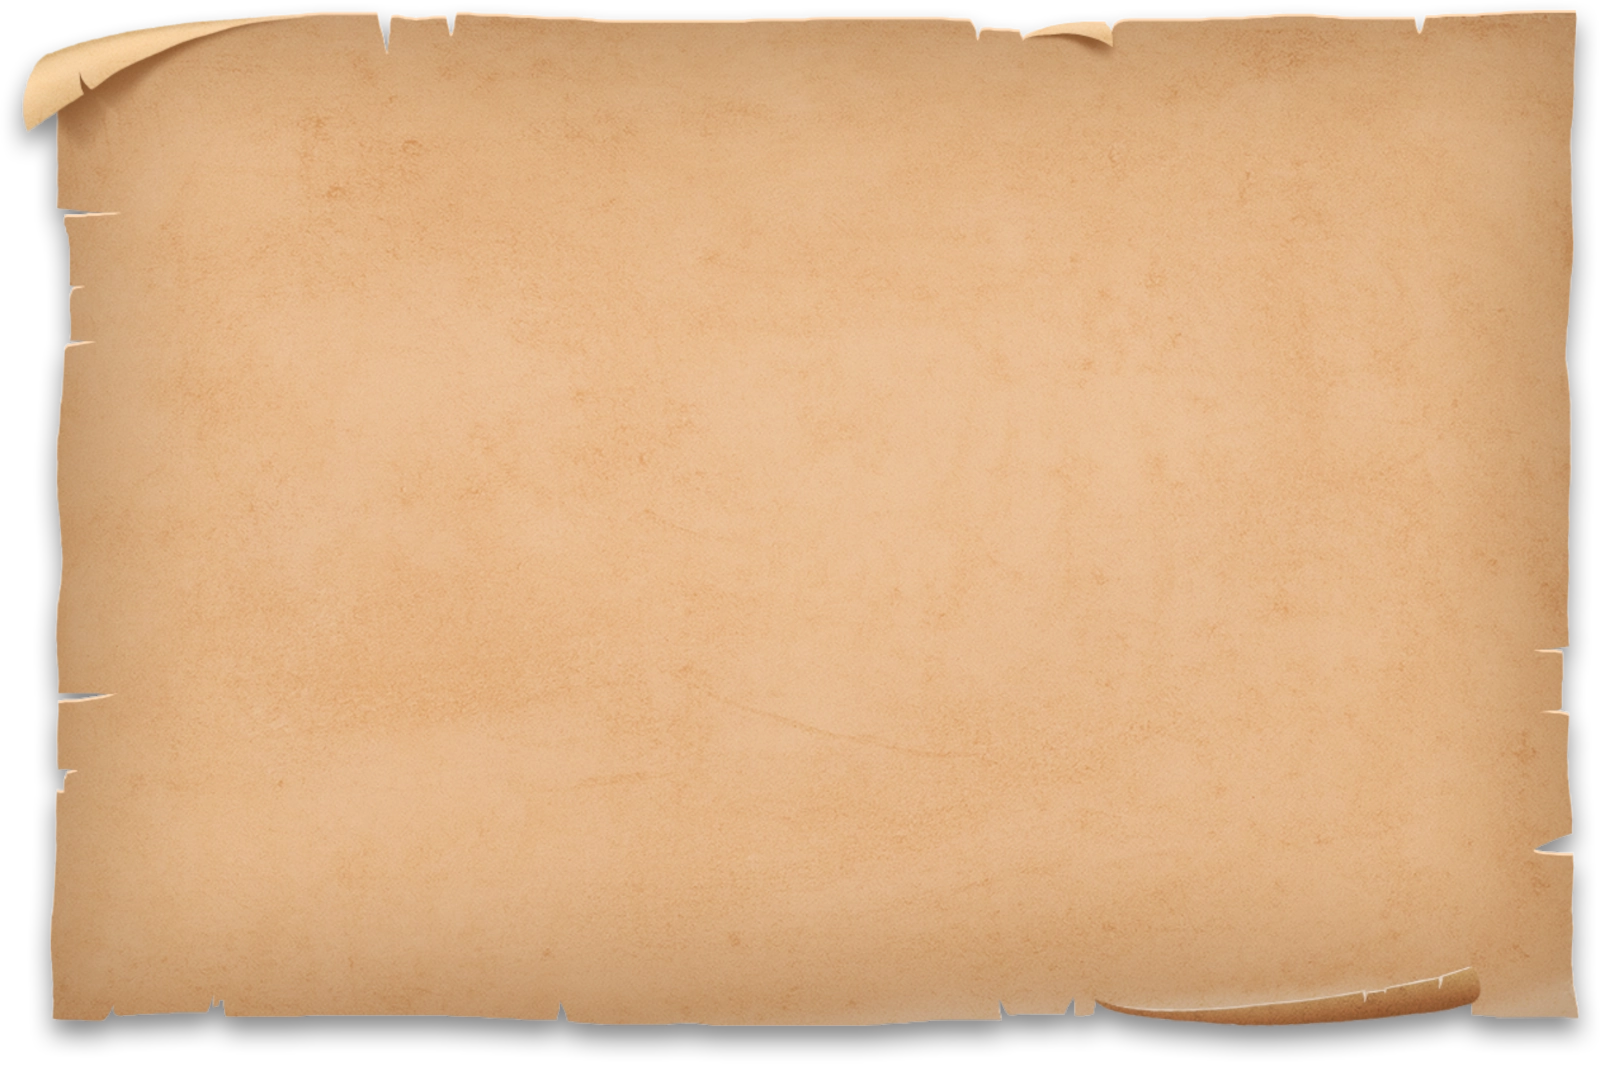
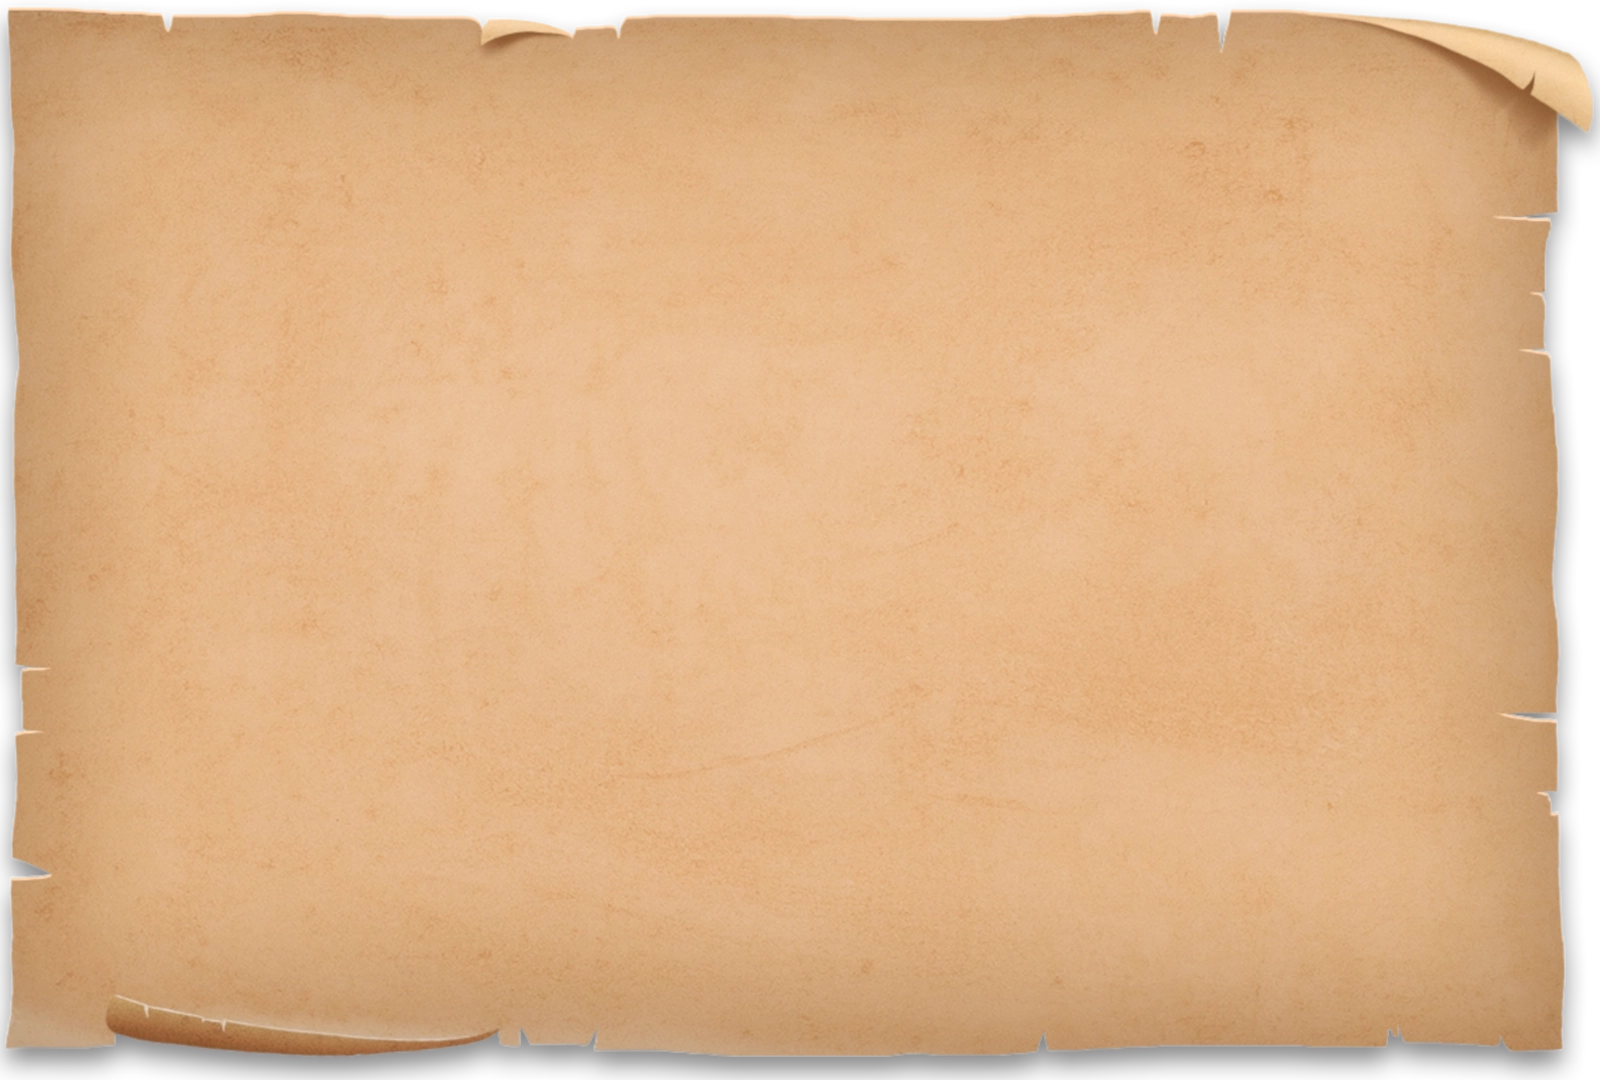
update parchment

Changed region(s): [[0.0, 0.0, 1.0, 1.0], [0.2812, 0.0, 0.5, 0.0611], [0.2188, 0.0, 0.25, 0.0306]]

diff --git a/docs/dialog-and-story-beats-plan.md b/docs/dialog-and-story-beats-plan.md
@@ -1,0 +1,378 @@
+# Technical Plan: Flavor Text, Dialog Scenes and Story Beats
+
+**Status:** planning. Nothing here is implemented yet.
+**Scope:** the first "personality" pass on the POC. It covers presentation (flavor text, the daughter's thoughts, a visual-novel dialog player) and a minimal story-beat trigger system. Relationship stats and socializing mechanics are out of scope; §9 lists what is postponed.
+
+## 1. Terms
+
+| Term | Meaning |
+|---|---|
+| **Flavor text** | A 1–2 sentence line on a tutor or job result popup, picked at random. |
+| **Thought** | The daughter's inner monologue, shown in a small box under her portrait on the home screen. |
+| **Dialog scene** | The UI feature: a full-screen visual-novel presentation with a background, portraits and a text box. |
+| **Story beat** | A narrative event. For this POC, one story beat is played as one dialog scene (one ink knot). |
+| **Thread** | An ordered chain of story beats, e.g. the Bellatores storyline. Threads never affect each other. |
+
+## 2. Goals and non-goals
+
+**Goals**
+
+1. Random flavor text on tutor results (3+ lines per tutor) and job results (4+ success and 4+ failure lines per job).
+2. A random daughter's thought on the home screen.
+3. A reusable dialog-scene player driven by ink content.
+4. Story beats that fire after a target activity once a minimum date and minimum stats are reached, with one beat per activity and a cooldown per thread.
+5. Father–daughter talks through the **Social** button. They are free and spend no week.
+6. Some beats grant Coin or an item. Each thread's grand item comes on its penultimate or last beat.
+7. All triggers and content live in data files (ink and JSON), so beats can be added or changed without code changes.
+
+**Non-goals (this pass)**
+
+- Relationship levels and a stat for the father–daughter bond.
+- Socializing as a week-long activity, and date rolls.
+- Choices with lasting effects. Ink choices may only change the following lines of the same scene.
+- Ranked or conditional thoughts (the only condition is the "something on my mind" hint, §6.4).
+- Story beats on the pilgrimage, at waystations or in the endings.
+- Modelling story rewards in the balance simulations (§8).
+
+## 3. Content overview
+
+| Thread | File | Target activities | Main characters | Beats | Grand reward |
+|---|---|---|---|---|---|
+| Bellatores | `content/story/knight.ink` | `hedge_knight`, `village_watch` | Hedge Knight, Watch Captain, the Squire (rival) | 4–5 | Gambeson |
+| Oratores | `content/story/cloister.ink` | `hermit`, `scriptorium` | Hermit, the Brother Librarian, the Heretic Novice (rival) | 4–5 | Saint's Relic |
+| Laboratores | `content/story/alley.ink` | `smuggler`, `alehouse` | Smuggler, the Alewife, the Urchin (rival) | 4–5 | Weighted Coin |
+| Stables | `content/story/stables.ink` | `stables` | Stablemaster | ~3 | a consumable (e.g. Theriac) |
+| Father & daughter | `content/story/father.ink` | `socialize` (the Social button) | the player, the daughter | ~7 | e.g. Metheglin |
+
+About 20–25 beats in total. Placeholder beats are a few dialog turns that get the beat's idea across, to be expanded later.
+
+Names, files and rewards above are suggestions; the content PR (T5) may change them freely because nothing in the code depends on them.
+
+## 4. Flavor text and thoughts (no ink)
+
+### 4.1 Data file
+
+`content/flavor.json`:
+
+```json
+{
+  "tutor": {
+    "hedge_knight": ["...", "...", "..."],
+    "hermit": ["..."],
+    "smuggler": ["..."]
+  },
+  "job": {
+    "stables":      { "success": ["..."], "failure": [] },
+    "alehouse":     { "success": ["..."], "failure": ["..."] },
+    "village_watch":{ "success": ["..."], "failure": ["..."] },
+    "scriptorium":  { "success": ["..."], "failure": ["..."] }
+  },
+  "thought": {
+    "idle": ["...", "..."],
+    "talk_ready": ["I have something on my mind..."]
+  }
+}
+```
+
+- Lists can be any length; code picks from whatever is there. Stables never fails, so its `failure` list may be empty.
+- Lines may use `{scion}` and `{player}`, which are replaced by the daughter's name and the player's first name.
+- A test enforces the minimum counts (3 per tutor, 4 success and 4 failure per job except Stables failure, 1+ in each thought list) and checks that every key is a real activity.
+
+### 4.2 Picking a line
+
+`src/ui/engine/flavor.ts` (pure TS):
+
+- `pickLine(lines, key)`: chooses an index from a small string hash of `key`. The key is `${state.seed}:${week}:${slot}`, where `slot` is e.g. `job:alehouse:success` or `thought`.
+- It must **not** draw from the core's seeded random streams (`state.rng`). Those keep simulations reproducible; flavor text must not shift them.
+- Hashing on the week means a re-render or a reload shows the same line. Repeats across weeks are allowed.
+
+### 4.3 Where it shows
+
+- **Result popup:** `ResultSummary` gets an optional `flavor?: string`. `summarize` stays the same; the store fills `flavor` for `TRAIN` and `WORK` results (success or failure from the `job_resolved` event). `ResultPanel` shows it in italics under the title. Rest and pilgrimage results get no flavor text in this pass.
+- **Thought box:** a small parchment box under `home-princess` on `HomeHub`. It shows a `thought.idle` line for the current week, or a `thought.talk_ready` line when a father–daughter beat is ready (§6.4). It is hidden during the forced recovery week.
+
+## 5. Dialog scenes (ink)
+
+### 5.1 How ink is used
+
+- `.ink` files are plain text and can be written and previewed in Inky.
+- They are compiled to ink's JSON format, and the `inkjs` runtime plays them. `inkjs` 2.x includes the compiler, so the project does not need the `inklecate` binary.
+- Each thread is one `.ink` file, and each beat is one knot (`=== knight_2 ===`). The beat id is `<file>/<knot>`, e.g. `knight/knight_2`.
+- Ink is used **statelessly**. Before each scene the runtime resets the story, sets the input variables and jumps to the knot. Ink state is never saved; everything persistent lives in `CampaignState` (§7).
+
+### 5.2 Build step
+
+- A small Vite plugin, `scripts/vite-plugin-ink.ts`, turns `import story from '…/knight.ink'` into the compiled JSON, compiling with `inkjs`'s compiler. Compile errors fail the build or the test run, showing the file and line.
+- The plugin goes in **both** `vite.config.ts` and `vitest.config.ts`, so tests compile the real content.
+- Files are loaded with `import.meta.glob('../../content/story/*.ink', { eager: true })`, so adding a new thread is just adding a file.
+- Each file is compiled on its own. Avoid ink `INCLUDE` in this pass: it needs a compiler file handler, and separate files keep knot names local to each thread.
+- `src/ui/ink.d.ts` declares the `*.ink` module type.
+- Check the exact `inkjs` import paths (`inkjs/full` or `inkjs/compiler`) when installing and pin the version.
+
+### 5.3 Input variables
+
+Every story file declares the same inputs with preview defaults, so Inky can preview them:
+
+```ink
+VAR scion = "Joan"
+VAR player = "Gerald"
+VAR bellatores = 15
+VAR oratores = 15
+VAR laboratores = 15
+```
+
+The runtime sets these from `CampaignState` before each scene. Text uses `{scion}`. Ink conditions may use the stats (`{bellatores >= 40: ...}`), but they may only change wording, not the outcome.
+
+### 5.4 Line conventions
+
+| Line | Example | Display |
+|---|---|---|
+| Speech | `squire: You call that a guard?` | Speaker's name plate plus the text |
+| Thought | `scion: (He's not wrong.)` | Name plate plus the text in parentheses, styled as a thought |
+| Narration | `The courtyard falls silent.` | Italic text, no name plate, no portrait change |
+
+- A line is speech when it starts with a known character id followed by `:`. Any other line is narration.
+- Character ids map to a registry, `src/ui/text/characters.ts`: `{ id: { name, portrait } }`. The names for `scion` and `father` come from the save (the daughter's name and the player's first name). Unknown ids fail a content test.
+
+### 5.5 Tags
+
+**Knot tags** (at the top of a knot; read without playing it, via `story.TagsForContentAtPath(knot)`):
+
+| Tag | Required | Meaning |
+|---|---|---|
+| `# order: 20` | yes | Position in the thread. Use gaps (10, 20, 30, …) so beats can be inserted later. |
+| `# activity: hedge_knight village_watch` | yes | Activities that can trigger the beat (space-separated). `socialize` means the Social button. |
+| `# month: 5` | no (default 1) | Earliest campaign month, from 1 to 24 (month 1 is weeks 0–3). |
+| `# stat: bellatores 30` | no, repeatable | A minimum stat. Every `stat` tag must be met. |
+| `# reward: coin 25` / `# reward: item gambeson` | no, repeatable | Granted when the scene finishes. |
+| `# bg: school` | no | The opening background (a `BACKGROUND` key). Defaults to the activity's own background. |
+| `# left: scion` | no | The main speaker on the left. Defaults to `scion`, or `father` in the father thread. |
+
+**Global tag** (at the top of a file): `# cooldown: 2` sets the thread's cooldown in weeks (default 2).
+
+**Line tags** (on a line inside a scene):
+
+- `# bg: <id>` cross-fades the background.
+- `# right: <id>` places someone on the right before they speak.
+- `# left: <id>` changes the main speaker; this should be rare.
+
+### 5.6 Choices
+
+Ink choices (`* [Tease him] …`) show as buttons in the text box, replacing the advance arrow. The ink is written so every branch rejoins with a gather (`-`). Lasting choices are a non-goal, and nothing reads choices afterwards.
+
+### 5.7 The cursor (pure TS)
+
+`src/ui/engine/dialog.ts` wraps an `inkjs` `Story` and has no React, so it can be tested in Node:
+
+```ts
+type DialogStep =
+  | { kind: 'line'; style: 'speech' | 'thought' | 'narration'; speaker?: string; text: string;
+      bg?: string; left?: string; right?: string }
+  | { kind: 'choice'; options: { index: number; text: string }[] }
+  | { kind: 'end' };
+
+openScene(story: Story, knot: string, inputs: DialogInputs): DialogCursor
+cursor.next(): DialogStep
+cursor.choose(index: number): DialogStep
+```
+
+### 5.8 The dialog screen
+
+`src/ui/screens/Dialog.tsx`, drawn at App level above the current screen (z-order: Dialog > ResultPanel):
+
+- **Fades:** the scene fades in from black, background changes cross-fade, and the scene fades out at the end. All fades are skipped when the player prefers reduced motion (reuse the intro's `prefersReducedMotion`).
+- **Text box:** a JRPG-style window at the bottom with the name plate, the text, and a small arrow button at the bottom right (`assets/ui/PNG/arrowBeige_right.png`). Click, Enter or Space advances.
+- **Portraits:** these sit above the text box.
+  - The left portrait is the main speaker.
+  - The right portrait is whoever else last spoke. When a new speaker who isn't on the left talks, the right portrait cross-fades to them.
+  - Portrait art faces right, so the right-hand portrait is mirrored with `transform: scaleX(-1)`.
+  - Whoever isn't speaking is dimmed slightly.
+- **Rewards:** shown as a final system line ("Received: Gambeson" or "Received: 25 Coin"). This is display only; §7 grants the reward.
+- **Gallery:** the Gallery page (`?gallery`) gets a "Play scene" picker that lists every beat, for previewing content without meeting its conditions.
+
+## 6. Story beats
+
+### 6.1 Reading beats
+
+`src/ui/engine/story.ts` (pure TS):
+
+- `loadBeats(stories)` reads every knot's tags and returns `Beat[]`:
+
+  ```ts
+  interface Beat { id: string; thread: string; knot: string; order: number;
+    activities: (ActivityId | 'socialize')[]; month: number; stats: [Estate, number][];
+    rewards: Reward[]; bg?: string; left?: string }
+  ```
+
+- Knots without an `# order` tag are not beats (helper knots and stitches). Within a thread, beats are sorted by `order`.
+- `validateBeats` reports unknown activities, estates, items, backgrounds and character ids, as well as duplicate orders. A content test runs it on the real files.
+
+### 6.2 Trigger rule
+
+`nextBeat(beats, state, activity, played)` returns at most one beat:
+
+1. Look at each thread, and only at its **first unplayed beat**. Beats play strictly in order and never skip ahead.
+2. That beat is eligible when all of these hold:
+   - its `activities` includes `activity`;
+   - the current campaign month is at least `month`;
+   - every `stat` minimum is met, using stats **after** the activity, so a lesson that crosses a threshold triggers right away;
+   - the thread's cooldown has passed: `week − (week its last beat played) ≥ cooldown`.
+3. If more than one thread qualifies, the lowest file name wins. By design no two threads share an activity, so this is only a tie-break. One beat at most plays per week.
+
+Since only the next beat in a thread is ever checked, a backlog (e.g. neglecting a job for months) drains one beat at a time, with the cooldown between them.
+
+### 6.3 Flow after an activity
+
+The flow lives in `GameStore.dispatch`:
+
+1. Apply the action as today and build the result summary, adding `flavor`.
+2. For `TRAIN`, `WORK` and `REST`, call `nextBeat`. **Skip** this check when:
+   - the action was the forced recovery rest (the state before had `pendingConvalescence`);
+   - the result has a `collapse` event;
+   - the resulting phase is not `home` (deadline).
+3. If there is a beat, set `ui.pendingDialog = { beatId }` and keep `ui.pendingResult` behind it. `App` draws the result popup only when no dialog is pending.
+4. When the scene ends, call `store.finishBeat(beatId)`. This applies the core `STORY_BEAT` action (§7), clears `pendingDialog`, and then shows the result popup.
+5. `dispatch` refuses new actions while `pendingDialog` is set, just as it does for `pendingResult`.
+
+**Quitting or reloading mid-scene:** `pendingDialog` is UI state and is not saved, so the beat is not recorded. It will trigger again after the next matching activity. That is acceptable for the POC.
+
+### 6.4 Social button (father–daughter)
+
+- **Social** stays on the hub. It is enabled when `nextBeat(beats, state, 'socialize', played)` returns a beat, and greyed out otherwise (with the tooltip "Nothing to talk about yet").
+- While it is enabled, the thought box shows a `thought.talk_ready` line.
+- Clicking it sets `pendingDialog`, and the end of the scene calls `finishBeat`. **No week is spent**, and no result popup is shown (the reward appears as the last dialog line, §5.8).
+- It is unavailable during the forced recovery week.
+
+## 7. Core changes (rules engine)
+
+Story rewards and played beats must go through the engine, so they are saved, validated and logged like any other change. The engine knows nothing about ink or triggers.
+
+- **State:** `CampaignState.storyBeats?: Record<string, number>` maps beat id → the week it played.
+  - It is optional, so existing `version: 1` saves load unchanged and read it as `{}`. The save format version does not change.
+  - Cooldowns and "played" are both derived from it.
+- **Action:** `{ type: 'STORY_BEAT'; beatId: string; reward?: { coin?: number; items?: string[] } }`.
+  - Allowed only in the `home` phase, and never while `pendingConvalescence` is set.
+  - Rejected with a `RuleError` if `beatId` is already recorded, if an item is not in the catalog, or if the coin amount is not a non-negative integer.
+  - Records `storyBeats[beatId] = elapsedWeeks`, adds coin to the treasury (capped at 9,999 like any other gain), and adds items to the inventory.
+  - Spends no week, draws no randomness, and does not break the Waxing chain (`lastWeeklyActivityId` is unchanged).
+  - Granted items ignore `items.acquisition`, which only controls random pilgrimage drops.
+- **Events:**
+  - a new `story_beat` event (`{ beatId }`);
+  - `coin_changed` with a new `CoinSource`, `'story_reward'`;
+  - `item_changed` with the existing `'reward'` source.
+  - Labels are added to `text/labels.ts`, so the Chronicle shows an entry ("A story: …").
+- **Availability:** `STORY_BEAT` is **not** returned by `getAvailableActions`, since the engine can't know which beats exist. The store calls a dedicated `finishBeat` path that skips the `isAvailable` check but still goes through `applyAction`, so the engine's own checks apply. The simulations and the fuzz walker never emit it.
+- **Trust boundary:** the engine trusts the reward the UI passes. That is fine for a single-player POC; the content test (T5) is what keeps rewards sane.
+- **Persistence:** `hasPlayableState` checks that `storyBeats`, if present, is a record of non-negative integers.
+
+## 8. Effect on balance and simulations
+
+- Simulations run without story beats, so the balance reports stay a "no story" baseline.
+- Story rewards are a small bonus on top: about 3 equipment items, 2 consumables and some Coin over the campaign.
+- If they turn out to matter, a later task can teach the simulation policies about beats. That is out of scope here.
+
+## 9. Postponed
+
+- A father–daughter relationship stat and relationship levels for the rivals.
+- Socializing as a weekly activity with date rolls.
+- Ranked, condition-based thoughts. The flavor file can later change from strings to `{ text, when?, weight? }` objects without breaking anything.
+- Choices with lasting effects, and story beats on the road or in the endings.
+- Typewriter text, voice and music cues (these could later be added as tags).
+
+## 10. Assets
+
+Placeholders are fine for every new portrait. Each should be 360×540 and face right, like the existing art.
+
+| Character | Placeholder until real art |
+|---|---|
+| Father (the player) | `portrait_noble_male` |
+| Squire | `portrait_noble_male` (tinted) or new |
+| Heretic Novice | `portrait_student_male` |
+| Urchin | `portrait_damsel` or new |
+| Watch Captain, Brother Librarian, Alewife, Stablemaster | `portrait_merchant_male` / `portrait_lady` or new |
+| Daughter | `portrait_princess` |
+
+Backgrounds reuse the existing `BACKGROUND` set (`home`, `school`, `job`, …). New ones can be added by registering a key in `assets.ts`.
+
+## 11. Task / PR breakdown
+
+Each task is one branch and PR, merged in order. Every PR includes tests (AGENTS.md).
+
+### T1 `feature/flavor-text`: flavor text and thoughts
+
+- `content/flavor.json` with placeholder lines at the minimum counts.
+- `src/ui/engine/flavor.ts`: loading, `{scion}`/`{player}` substitution and `pickLine`.
+- `ResultSummary.flavor`, filled for `TRAIN` and `WORK` in the store; `ResultPanel` shows it in italics.
+- The thought box on `HomeHub` (`idle` lines only, since the talk-ready hint comes in T4).
+- **Tests:**
+  - the content-count test;
+  - `pickLine` is deterministic for a given key;
+  - success and failure lines are chosen from the `job_resolved` event;
+  - flavor picking doesn't change `state.rng`.
+- **Depends on:** nothing.
+
+### T2 `feature/dialog-player`: the ink pipeline and dialog scene player
+
+- Add `inkjs`, the `vite-plugin-ink` script (registered in both Vite and Vitest), and `ink.d.ts`.
+- `src/ui/engine/dialog.ts`: the cursor (line parsing, line tags, choices, input variables).
+- `src/ui/text/characters.ts`: the character registry with placeholder portraits.
+- `Dialog.tsx` and its CSS: fades, background cross-fade, the text box, the arrow button, left/right portraits with mirroring and cross-fade, choices, and reduced motion.
+- One sample file, `content/story/sample.ink`, and the Gallery "Play scene" picker.
+- **Tests:**
+  - compiling the sample;
+  - the cursor turns speech, thought and narration lines into the right step;
+  - `bg`/`left`/`right` tags show up on steps;
+  - choices round-trip;
+  - names are inserted;
+  - an unknown speaker is treated as narration.
+- **Depends on:** nothing (it can run in parallel with T1).
+
+### T3 `feature/story-beat-core`: engine support
+
+- `CampaignState.storyBeats`, the `STORY_BEAT` action, the `story_beat` event, the `'story_reward'` coin source, labels and the Chronicle entry, and `hasPlayableState` validation.
+- **Tests:**
+  - the beat is recorded with its week;
+  - replaying a beat is rejected;
+  - an unknown item is rejected;
+  - coin is capped;
+  - no week passes and the Waxing chain survives;
+  - it is rejected outside `home` or during convalescence;
+  - an old save without the field loads;
+  - existing invariants and purity tests still pass.
+- **Depends on:** nothing (it can run in parallel with T1 and T2).
+
+### T4 `feature/story-beats`: triggers and flow
+
+- `src/ui/engine/story.ts`: `loadBeats`, `validateBeats` and `nextBeat`.
+- Store changes:
+  - `pendingDialog`, with the result popup waiting behind it;
+  - the skip rules (§6.3);
+  - `finishBeat`;
+  - blocking `dispatch` while a dialog is open.
+- The **Social** button enable/disable rule, and the `talk_ready` thought.
+- Replace the T2 sample with one real placeholder beat per thread, so the flow is testable end to end.
+- **Tests:**
+  - tag parsing, with defaults and errors;
+  - order within a thread, including no skipping;
+  - month, stat and activity gates, using post-activity stats;
+  - per-thread cooldown;
+  - only one beat per week;
+  - the skip rules (forced recovery rest, collapse, deadline);
+  - Social spends no week;
+  - the reward reaches the treasury and inventory through the engine;
+  - a reload mid-scene leaves the beat unplayed.
+- Extend a Playwright check script (`scripts/check-*.cjs`) to play one beat.
+- **Depends on:** T2 and T3.
+
+### T5 `feature/story-content`: placeholder story content
+
+- Placeholder beats for every thread in §3:
+  - 4–5 each for knight, cloister and alley;
+  - about 3 for the stables;
+  - about 7 for the father.
+- Starting trigger values. Spread months across the 24-month campaign, and raise stat minimums gradually (e.g. 20 → 30 → 40 → 55 → 70).
+- Rewards: grand items on the penultimate or last beat.
+- Placeholder portraits and character entries.
+- A content test: every beat validates, every thread has 3 or more beats, and every grand item exists in `content/items.json`.
+- Update the README (how to write a beat, the tag reference, how to preview in Inky and the Gallery).
+- **Depends on:** T4.
